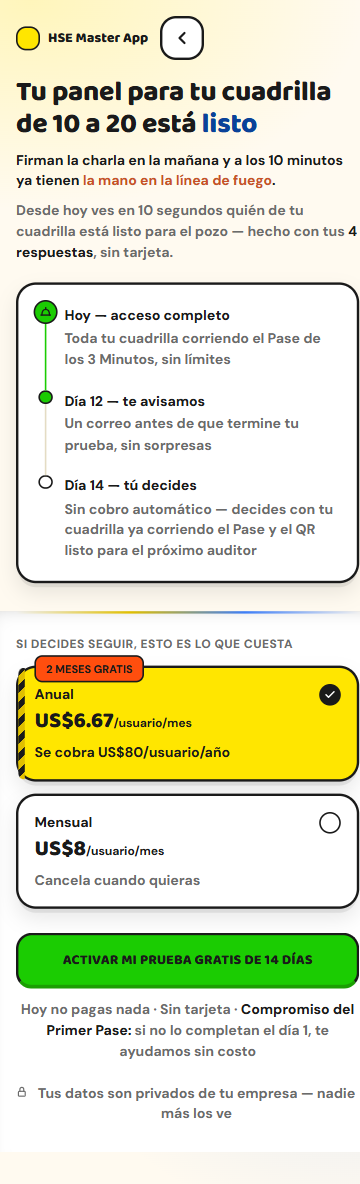
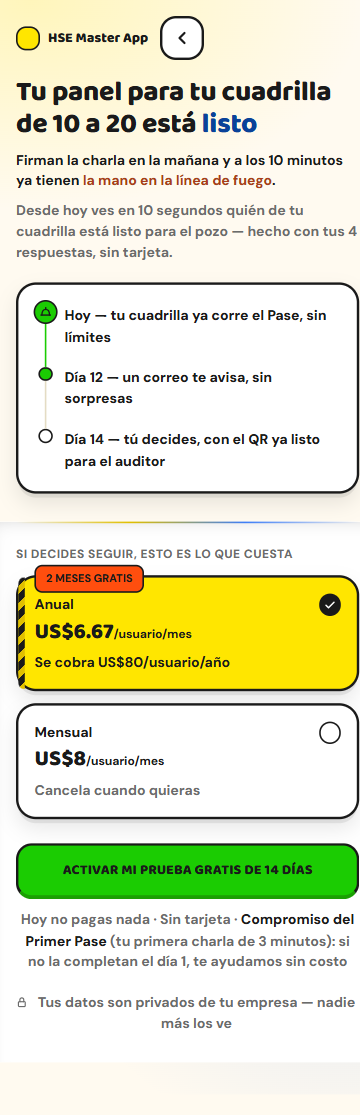
Sesion 4: corrige los 5 defectos de la ronda 7 en paywall
El rojo de "la mano en la linea de fuego" media 4.36:1 de contraste
(bajo el minimo AA 4.5:1) -> se oscurece a #a83d1a (~6:1). El timeline
baja de 9 lineas (3 titulos + 3 detalles) a 3 lineas compactas, una
por hito, para llegar antes al precio y al CTA. Se quita el
negrita-negro de "4 respuestas" para dejar un solo foco de color (el
rojo del dolor). "Compromiso del Primer Pase" aclara en la misma linea
que es la primera charla de 3 minutos, para quien aterriza directo
aqui. El radiogroup de planes gana navegacion real por flechas con
tabindex rotativo (antes solo Enter/Espacio).

diff --git a/paywall.html b/paywall.html
@@ -48,9 +48,8 @@
   .pw-headline { font-family: var(--font-display); font-size: 28px; font-weight: 800; line-height: 1.15; letter-spacing: -0.01em; }
   .pw-headline em { font-style: normal; color: var(--azul-sombra); }
   .pw-sub { margin-top: 10px; font-size: 14px; color: var(--ink-2); font-weight: 700; }
-  .pw-sub b { color: var(--ink); }
   .pw-emocion { margin-top: 10px; font-size: 14px; font-weight: 700; color: var(--ink); line-height: 1.4; }
-  .pw-emocion b { color: var(--rojo-sombra); }
+  .pw-emocion b { color: #a83d1a; }
 
   .pw-bloque { background: var(--surface); border: 3px solid var(--ink); border-radius: 20px; padding: 20px; margin-top: 20px;
                box-shadow: 0 6px 0 -2px rgb(26 26 26 / 0.08), 0 10px 20px rgb(26 26 26 / 0.1); }
@@ -68,7 +67,6 @@
   .pw-linea .contenido { padding-bottom: 20px; }
   .pw-linea:last-child .contenido { padding-bottom: 0; }
   .pw-linea .titulo { font-size: 14px; font-weight: 800; }
-  .pw-linea .detalle { margin-top: 2px; font-size: 14px; color: var(--ink-2); font-weight: 700; }
 
   .pw-puente { margin-top: 16px; display: flex; flex-direction: column; gap: 8px; }
   .pw-puente .item { display: flex; align-items: center; gap: 8px; font-size: 12px; font-weight: 700; color: var(--ink-2); }
@@ -128,28 +126,25 @@
 <main class="wrap">
   <h1 class="pw-headline pw-reveal">Tu panel para <span id="pwCuadrilla">tu cuadrilla</span> está <em>listo</em></h1>
   <p class="pw-emocion pw-reveal">Firman la charla en la mañana y a los 10 minutos ya tienen <b>la mano en la línea de fuego</b>.</p>
-  <p class="pw-sub pw-reveal">Desde hoy ves en 10 segundos quién de tu cuadrilla está listo para el pozo — hecho con tus <b>4 respuestas</b>, sin tarjeta.</p>
+  <p class="pw-sub pw-reveal">Desde hoy ves en 10 segundos quién de tu cuadrilla está listo para el pozo — hecho con tus 4 respuestas, sin tarjeta.</p>
 
   <div class="pw-bloque pw-reveal">
     <div class="pw-linea">
       <div class="riel"><span class="nodo casco"><svg viewBox="0 0 24 24" fill="none" stroke="#1a1a1a" stroke-width="2.6" stroke-linecap="round" stroke-linejoin="round"><path d="M3.5 17.5h17"/><path d="M5 17.5Q5 7 12 7Q19 7 19 17.5"/><path d="M12 7V4"/></svg></span><span class="conector"></span></div>
       <div class="contenido">
-        <p class="titulo">Hoy — acceso completo</p>
-        <p class="detalle">Toda tu cuadrilla corriendo el Pase de los 3 Minutos, sin límites</p>
+        <p class="titulo">Hoy — tu cuadrilla ya corre el Pase, sin límites</p>
       </div>
     </div>
     <div class="pw-linea">
       <div class="riel"><span class="nodo"></span><span class="conector neutro"></span></div>
       <div class="contenido">
-        <p class="titulo">Día 12 — te avisamos</p>
-        <p class="detalle">Un correo antes de que termine tu prueba, sin sorpresas</p>
+        <p class="titulo">Día 12 — un correo te avisa, sin sorpresas</p>
       </div>
     </div>
     <div class="pw-linea">
       <div class="riel"><span class="nodo outline"></span></div>
       <div class="contenido">
-        <p class="titulo">Día 14 — tú decides</p>
-        <p class="detalle">Sin cobro automático — decides con tu cuadrilla ya corriendo el Pase y el QR listo para el próximo auditor</p>
+        <p class="titulo">Día 14 — tú decides, con el QR ya listo para el auditor</p>
       </div>
     </div>
   </div>
@@ -166,7 +161,7 @@
       <p class="precio">US$6.67<small>/usuario/mes</small></p>
       <p class="nota">Se cobra US$80/usuario/año</p>
     </div>
-    <div class="pw-plan" id="pwPlanMensual" data-plan="mensual" role="radio" aria-checked="false" tabindex="0">
+    <div class="pw-plan" id="pwPlanMensual" data-plan="mensual" role="radio" aria-checked="false" tabindex="-1">
       <div class="fila">
         <span class="nombre">Mensual</span>
         <span class="marca"><svg width="12" height="12" viewBox="0 0 24 24" fill="none" stroke="#fff" stroke-width="3" stroke-linecap="round" stroke-linejoin="round"><path d="M20 6 9 17l-5-5"/></svg></span>
@@ -178,7 +173,7 @@
 
   <div class="pw-cta-wrap pw-reveal">
     <button type="button" class="pw-boton" id="pwActivar">Activar mi prueba gratis de 14 días</button>
-    <p class="pw-reversibilidad">Hoy no pagas nada · Sin tarjeta · <b>Compromiso del Primer Pase:</b> si no lo completan el día 1, te ayudamos sin costo</p>
+    <p class="pw-reversibilidad">Hoy no pagas nada · Sin tarjeta · <b>Compromiso del Primer Pase</b> (tu primera charla de 3 minutos): si no la completan el día 1, te ayudamos sin costo</p>
   </div>
 
   <p class="pw-trust pw-reveal">
@@ -201,15 +196,22 @@
     document.getElementById('pwCuadrilla').textContent = 'tu cuadrilla';
   }
 
-  function elegirPlan(plan) {
-    document.querySelectorAll('.pw-plan').forEach((p) => { p.classList.remove('elegido'); p.setAttribute('aria-checked', 'false'); });
+  const planes = Array.from(document.querySelectorAll('.pw-plan'));
+  function elegirPlan(plan, enfocar) {
+    planes.forEach((p) => { p.classList.remove('elegido'); p.setAttribute('aria-checked', 'false'); p.setAttribute('tabindex', '-1'); });
     plan.classList.add('elegido');
     plan.setAttribute('aria-checked', 'true');
+    plan.setAttribute('tabindex', '0');
+    if (enfocar) plan.focus();
   }
-  document.querySelectorAll('.pw-plan').forEach((plan) => {
-    plan.addEventListener('click', () => elegirPlan(plan));
+  planes.forEach((plan, i) => {
+    plan.addEventListener('click', () => elegirPlan(plan, false));
     plan.addEventListener('keydown', (e) => {
-      if (e.key === 'Enter' || e.key === ' ') { e.preventDefault(); elegirPlan(plan); }
+      if (e.key === 'Enter' || e.key === ' ') { e.preventDefault(); elegirPlan(plan, false); return; }
+      if (!['ArrowDown', 'ArrowRight', 'ArrowUp', 'ArrowLeft'].includes(e.key)) return;
+      e.preventDefault();
+      const siguiente = (e.key === 'ArrowDown' || e.key === 'ArrowRight') ? planes[(i + 1) % planes.length] : planes[(i - 1 + planes.length) % planes.length];
+      elegirPlan(siguiente, true);
     });
   });
 

diff --git a/ESTADO.md b/ESTADO.md
@@ -1,7 +1,7 @@
 # ESTADO — HSE Master App
 Última actualización: 2026-10-17 | Sesión actual: 4
 
-⏸ CHECKPOINT — Sesión 4 (onboarding, paywall), ronda 7 de onboarding YA ENTREGADA y YA CORREGIDA (sin relanzar ronda 8 todavía); paywall ronda 7 sigue en segundo plano. Onboarding ronda 7: usabilidad 29/40, craft 16/20 — el craft YA PASA el umbral (≥16/20); el bloqueo es solo usabilidad, por el vacío muerto sistemático de centrar verticalmente cada paso en una pantalla alta. Defectos de la ronda 7 ya corregidos: `.onb-paso` pasó de `justify-content:center` a `flex-start` con el contenido anclado arriba (solo el paso 5 de loading se deja centrado, por ser una pantalla transitoria tipo spinner) — reduce a la mitad el aire muerto en vez de repartirlo arriba y abajo; el paso 4 (horario) usaba el encabezado verde (reservado en FICHA-ARTE a "logro/acción principal") para una pregunta informativa → pasó a azul, igual que el paso 1; las líneas "completa" del loading ahora muestran un check SVG dentro del círculo verde, no solo el cambio de color. Próximo paso: cuando llegue el veredicto de paywall ronda 7, corregirlo, commitear ambos y relanzar la ronda 8.
+⏸ CHECKPOINT — Sesión 4 (onboarding, paywall), ronda 7 de ambas YA ENTREGADA y YA CORREGIDA (sin relanzar ronda 8 todavía). Onboarding ronda 7: usabilidad 29/40, craft 16/20 (craft YA PASA el umbral). Paywall ronda 7: usabilidad 29/40, craft 15/20, copy 16/20. Fixes de onboarding: ver entrada anterior (anclaje arriba, paso 4 a azul, check en líneas completas). Fixes de paywall ronda 7: el rojo de "la mano en la línea de fuego" medía 4.36:1 de contraste (bajo el mínimo AA 4.5:1) → se oscureció a #a83d1a (≈6:1); el timeline bajó de 3 títulos + 3 detalles (9 líneas) a solo 3 líneas compactas, una por hito, para llegar antes al precio y al CTA; se quitó el negrita-negro de "4 respuestas" en el subtítulo para dejar un solo foco de color (el rojo del dolor); "Compromiso del Primer Pase" ahora aclara en la misma línea qué es ("tu primera charla de 3 minutos") para quien aterriza directo en esta pantalla; el radiogroup de planes gana navegación real por flechas ← → con tabindex rotativo (antes solo Enter/Espacio, sin moverse entre tarjetas con el teclado). Próximo paso: commitear y relanzar la ronda 8 de ambas.
 veredicto:landing — 24 rondas de revisión independiente corregidas con mejora real y medible (usabilidad 27→30, craft 12-14 oscilando). Sigue NO LISTA. Las correcciones restantes que el revisor pide (bajar de 4 a 2 acentos de color en toda la pantalla, variar el gesto de botón, rotar el amarillo más allá de lo que preserva "gold") chocan con decisiones ya aprobadas por el usuario (FICHA-ARTE.md, cosa juzgada) — documentadas abajo como razonadas, no pendientes sueltas. El único camino para subir más el puntaje de craft/identidad es que el USUARIO decida si quiere tocar esas decisiones aprobadas, no que el agente seguro siga iterando solo. defecto "cero estados de error en el funnel" sigue DELIBERADAMENTE sin resolver: no hay backend/checkout real todavía (Sesión 6, cualquier error sería fabricado). El footer legal ya NO dice "(pendiente)" con jerga interna (corregido en ronda 19 → "(próximamente)", lenguaje de cliente) pero las 3 páginas legales siguen sin redactarse de verdad — eso se resuelve en la sesión aparte de este sistema (47-LEGAL-FISCAL-Y-PRIVACIDAD.md). La promesa de "reembolso de 7 días" se QUITÓ de la landing (ronda 23) hasta que exista FICHA-MERCADO.md con el plazo real verificado contra Hotmart — ninguno bloquea esta pantalla puntual.
 
 ## Qué es esta app (3 líneas máximo)
@@ -105,7 +105,7 @@ Plataforma móvil B2B de microaprendizaje gamificado (estilo Duolingo) para capa
   5. [Método] El screenshot de evidencia es de página completa muy reescalada (360×8711) y no permite verificar encaje óptico fino — si se retoma el pulido, conviene agregar recortes a resolución nativa de las secciones clave.
   Las demás tensiones de fondo (paleta multicolor, gesto de botón, falta de testimonios, mailto sin backend, footer legal) siguen siendo decisiones razonadas y documentadas por separado abajo, no parte de esta lista.
 - veredicto:onboarding — 7 rondas de revisión independiente (30→31→32→28→28→33→29/40 usabilidad; craft 10→12→12→10→13→14→16/20). El craft cruzó el umbral en la ronda 7; falta solo usabilidad (ver CHECKPOINT, fix de anclaje ya aplicado). docs/revisiones/onboarding-veredicto.md en disco es el de la ronda 7. No se declara lista hasta leer el veredicto de la ronda 8.
-- veredicto:paywall — 6 rondas de revisión independiente (31→35→35→32→31→31/40 usabilidad; craft 14→12→15→14→13→14/20; copy 17→16→17→16→17→17/20). La ronda 6 marcó defectos de identidad/jerarquía tipográfica/orientación del ícono de volver (ver CHECKPOINT), ya corregidos sin relanzar aún la ronda 7. docs/revisiones/paywall-veredicto.md en disco es el de la ronda 6. No se declara lista hasta leer el veredicto de la ronda 7.
+- veredicto:paywall — 7 rondas de revisión independiente (31→35→35→32→31→31→29/40 usabilidad; craft 14→12→15→14→13→14→15/20; copy 17→16→17→16→17→17→16/20). La ronda 7 marcó un fallo real de contraste AA (ver CHECKPOINT) + exceso de texto antes del precio, ambos ya corregidos. docs/revisiones/paywall-veredicto.md en disco es el de la ronda 7. No se declara lista hasta leer el veredicto de la ronda 8.
 - cinco-opciones-reto-onboarding — RESUELTO en la ronda 4: la pregunta "¿cuál es tu reto más urgente?" tenía 5 chips de igual peso (4 dolores reales + "Otra cosa"), sobre el límite genérico de 4 del gate de carga cognitiva. En vez de solo documentar la tensión (como se hizo en rondas 1-3), se bajó "Otra cosa" a un enlace de texto secundario debajo de los 4 chips reales — conserva el escape hatch obligatorio de `50-DISENO-ONBOARDING-PAYWALL.md` → A2 ("el último ítem SIEMPRE es 'Otra cosa'") sin que compita en peso visual con los 4 dolores reales de FICHA-AVATAR.md. Los 4 chips siguen intactos (ninguno es relleno).
 - identidad-visual-duolingo (onboarding) — la ronda 1 marcó que el onboarding (tipografía chunky + bordes gruesos + botón presionable + amarillo/multicolor) se lee como el mismo lenguaje de Duolingo. Es la MISMA tensión ya documentada y cerrada para la landing (`gesto-boton-duolingo`, `forma-boton-duolingo`, `multicolor-60-30-10` abajo) — el onboarding reutiliza a propósito el mismo sistema visual de FICHA-ARTE.md (consistencia entre pantallas de la misma app), así que no es un hallazgo nuevo ni se redecide aquí: aplica la misma decisión razonada ya tomada para la landing.
 - metodologia-captura-scroll — desde la ronda 50: el screenshot oficial (`landing-375.png`) es de PÁGINA COMPLETA, así que nunca muestra elementos activados por scroll real (la barra fija inferior, el botón "volver arriba", el estado "past-oferta" si existiera). Cuando un veredicto dependa de verificar uno de esos elementos, no alcanza con leer el código: hay que probarlo en el navegador con scroll real (Playwright `browser_evaluate` moviendo `scrollTop` directo, NO `window.scrollTo` con `behavior` suave — en Chromium headless el scroll suave a veces no se mueve de verdad) antes de concluir que algo está roto.

diff --git a/docs/revisiones/paywall-veredicto.md b/docs/revisiones/paywall-veredicto.md
@@ -1,15 +1,15 @@
-# VEREDICTO revisor-visual — paywall
+# VEREDICTO revisor-visual — paywall (activación de prueba gratis)
 Fecha: 2026-10-17 00:00
 Screenshot: docs/revisiones/paywall-375.png
-Usabilidad: 31/40
-Craft: 14/20
-Copy (si vende): 17/20
+Usabilidad: 29/40
+Craft: 15/20
+Copy (si vende): 16/20
 Fidelidad (si hubo referencia): N-A
 Veredicto: NO LISTA
 
 Top defectos:
-1. [Identidad ownable — paywall.html líneas 83-107 `.pw-plan`/`.pw-boton` y 61-66 `.nodo`] El único detalle exclusivo de HSE Master App en toda la pantalla es el ícono de casco agregado al primer nodo del timeline (línea 132); el resto del lenguaje visual (tarjeta borde 3px + botón "presionable" con `border-bottom` que se hunde al tocar + radios gordos) sigue siendo la mecánica firma de Duolingo solo recoloreada — un usuario que conoce Duolingo la reconoce de inmediato. Un solo ícono no compensa que toda la estructura de componentes sea prestada → sumar un segundo detalle propio en esta pantalla concreta (ej. un patrón de borde tipo cinta de señalización en la tarjeta "Anual" recomendada, o un tratamiento distinto para el check de selección que no sea el círculo genérico tipo radio de Duolingo).
-2. [Jerarquía — paywall.html líneas 48, 50, 52, 70, 71, 81, 89, 92-94, 108, 111] La pantalla usa 7 tamaños de fuente distintos (28 / 22 / 15 / 14 / 13 / 12 / 10px) cuando la regla del sistema pide máximo 3 por pantalla — al entrecerrar los ojos se distinguen más de 4 "pesos" de texto compitiendo (headline, precio, emocion/título de timeline, sub/detalle/nota/reversibilidad/trust, label de plan, tag) → consolidar a 4 tamaños reales: 28 (hero) → 20-22 (precio/título) → 14 (todo el cuerpo: sub, emocion, detalle, nota, reversibilidad, trust) → 11-12 (label uppercase: planes-tit + tag).
-3. [Encabezado — paywall.html líneas 41-42 y 120-122, `.pw-cerrar`] El botón superior derecho usa un ícono de flecha-izquierda ("volver", semánticamente coherente con su destino `onboarding.html`) pero está ubicado donde el usuario espera una "X" de cerrar/salir del paywall — la combinación ícono-de-volver + posición-de-cerrar es una convención invertida que un usuario cualquiera nota al primer vistazo, no solo un ojo entrenado → mover el botón de volver a la izquierda (junto al logo) o cambiar el ícono a una X si la intención real es salir del flujo de activación, no retroceder un paso.
-4. [Prevención de errores — paywall.html línea 126 (`<span id="pwCuadrilla">`) y 190-193] El texto del H1 se rellena con `onb.cuadrilla` sin límite de longitud ni truncado; si la respuesta guardada en el onboarding es una frase larga o libre, el titular (que ya ocupa 3 líneas con el valor corto "entre 10 y 20 trabajadores" visto en el screenshot) puede desbordar el límite de 2-3 líneas / ≤8 palabras de un titular de conversión para otros usuarios con respuestas distintas → acotar la variable a una etiqueta corta predefinida (ej. mapear el rango de onboarding a "tu cuadrilla chica/mediana/grande") en vez de insertar el string crudo.
-5. [Control y errores — paywall.html líneas 189-194 y 208-212, bloques `try { ... } catch {}`] La lectura de `sessionStorage` y el guardado del plan elegido fallan en silencio (catch vacío, sin aviso al usuario) antes de navegar a `login.html`; dado que el objetivo del producto opera en pozos/plantas con conectividad intermitente (FICHA-AVATAR.md, objeción 2 "¿Funciona sin señal en el pozo/plataforma?"), esta pantalla de activación no tiene ningún manejo visible de fallo de navegación u offline → agregar un mensaje mínimo ("no pudimos guardar tu plan, inténtalo de nuevo") en vez de tragarse el error sin rastro.
+1. [paywall.html línea 53, `.pw-emocion b { color: var(--rojo-sombra) }` sobre `--bg:#fffaf0`] la frase que agita el dolor principal del avatar — "la mano en la línea de fuego" — mide ~4.36:1 de contraste (texto normal 14px, no "grande" aunque sea bold), por debajo del mínimo AA 4.5:1 → fix: oscurecer el tono (ej. #a83d1a) o subirlo a ≥18.66px/bold y reverificar el contraste real antes de declarar listo.
+2. [paywall.html líneas 129-154] headline + 2 párrafos (dolor + beneficio) + timeline de 3 pasos (~9 líneas de cuerpo) se despliegan íntegros antes de que el usuario vea el precio o el botón de activar → en una pantalla cuyo único trabajo es decidir sí/no, obliga a leer y bajar mucho antes de llegar a la oferta → fix: comprimir a 1 frase de dolor + 1 de beneficio arriba, dejar el detalle del timeline como refuerzo más compacto o colapsable.
+3. [paywall.html líneas 159-177 y 209-214] el `role="radiogroup"`/`role="radio"` de los planes solo maneja `Enter`/`Espacio` vía JS, con `tabindex="0"` en ambas tarjetas — un usuario de teclado/lector de pantalla espera mover la selección con flechas ← → dentro del grupo (patrón ARIA radiogroup estándar), no tabular dos veces → fix: implementar navegación por flechas con una sola tarjeta tabbable por vez.
+4. [paywall.html línea 181] "Compromiso del Primer Pase: si no lo completan el día 1, te ayudamos sin costo" no explica en esta misma pantalla qué es "el Primer Pase" que hay que completar — obliga a recordar un término visto en otra pantalla (onboarding), violando "reconocer en vez de recordar" para quien aterriza directo aquí → fix: agregar 3-4 palabras aclaratorias en la misma línea (ej. "tu primera charla de 3 minutos").
+5. [paywall.html líneas 129-131, densidad general] tres bloques de texto con jerarquía de énfasis similar (headline azul, emoción en rojo, sub con negrita negra) compiten por la atención del usuario antes de ver una sola acción — ningún bloque es claramente secundario al entrecerrar los ojos → fix: bajar el peso visual de uno de los tres (p.ej. quitar el color del segundo párrafo y dejarlo en negro/gris puro) para que quede un único foco de énfasis cromático.
